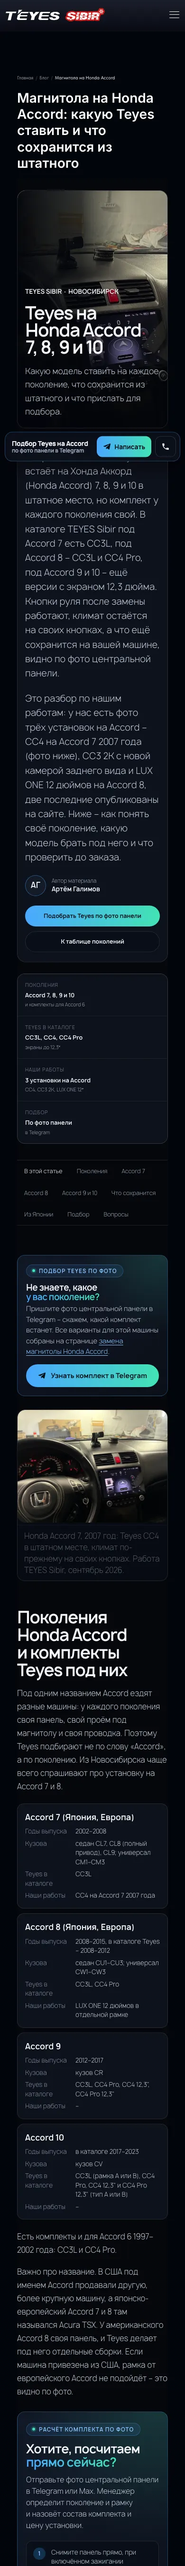
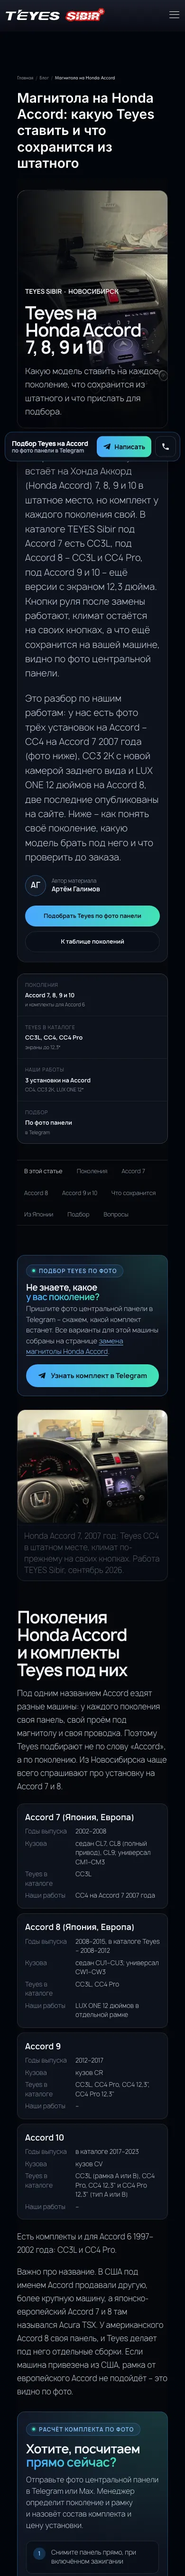
Призывы TEYES: единый отступ 20 px между блоками и кнопками (кнопки липли к шагам), снимки пересняты

diff --git a/teyes-materialy-336d9d32/vid/cta/cta.css b/teyes-materialy-336d9d32/vid/cta/cta.css
@@ -167,3 +167,17 @@
  .tcta__compare img{aspect-ratio:1/1;object-position:12% 50%}
 }
 @media(prefers-reduced-motion:reduce){.tcta *,.tcta-sticky{transition:none!important}}
+
+/* Единый ритм (правка 17.11): между блоками призыва и кнопками – 20px, как над блоком.
+   !important – стили сайта обнуляют отступы у списков (ol/ul), из-за этого кнопки липли к шагам. */
+.tcta .tcta__text,.tcta .tcta__steps,.tcta .tcta__facts,.tcta .tcta__compare,.tcta .tcta__pills,.tcta .tcta__checks,
+.tcta .tcta__code,.tcta .tcta__form,.tcta .tcta__preview,.tcta .tcta__quote,.tcta .tcta__author,.tcta .tcta__tiles{margin-bottom:20px!important}
+.tcta .tcta__status{display:flex;margin:0 0 20px!important}
+.tcta .tcta__phone{margin:0 0 12px!important}
+.tcta .tcta__actions{margin-top:0!important}
+.tcta .tcta__title + .tcta__actions{margin-top:10px!important}
+.tcta .tcta__actions + .tcta__status,.tcta .tcta__actions + .tcta__note{margin:16px 0 0!important}
+.tcta > :last-child,.tcta__body > :last-child{margin-bottom:0!important}
+.tcta--inline .tcta__text{margin-bottom:0!important}
+.tcta .tcta__title + .tcta__actions{margin-top:20px!important}
+.tcta .tcta__addr{margin-bottom:12px!important}

diff --git a/teyes-materialy-336d9d32/resheniya.md b/teyes-materialy-336d9d32/resheniya.md
@@ -8,3 +8,4 @@
 - Статьи блога – в единой стилистике с кейсом BMW; призывов (CTA) минимум 3 разных в статье – под разную ЦА, теплоту, историю; библиотека из 20 свёрстанных призывов.
 - Материалы отдавать свёрстанными, как на площадке.
 - 17.11, после «продолжай»: в макете ВК стоят 1-НСК-а + плашка В (выбор Claude до решения Артёма); фото менеджера в CTA-03 – из Case Studio (master.jpg), подпись «Алексей» ждёт подтверждения.
+- 17.11: «воздух у кнопок такой же, как над плашкой» – единый шаг 20 px в призывах (cta.css), замер zazory.py.
